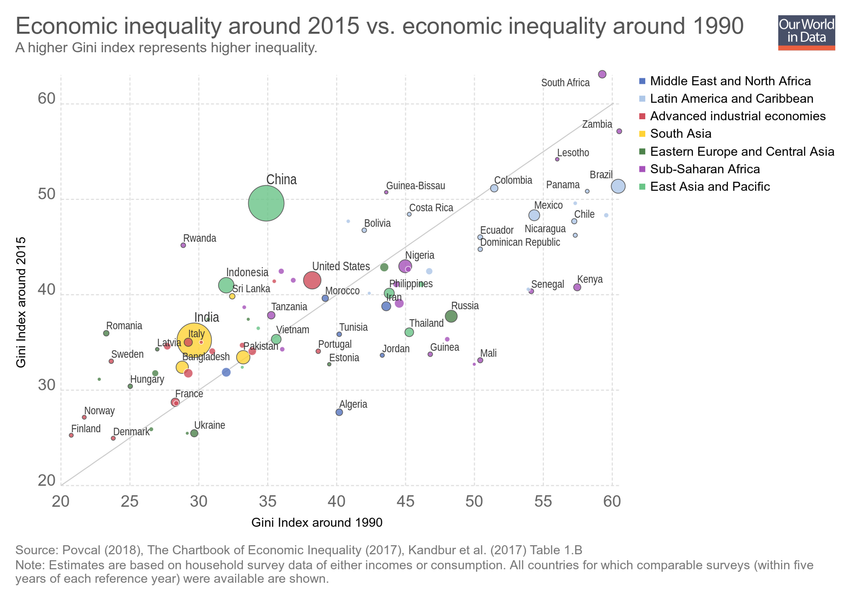
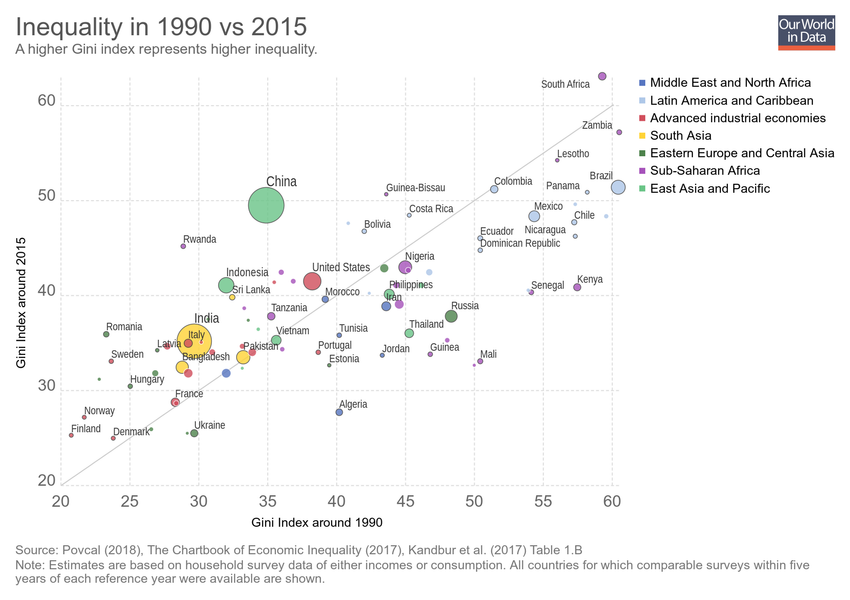
Updating chart gini-index-around-2015-1990-2015-countries-vs-gini-index-around-1990-1990-2015-countries

diff --git a/grapher/gini-index-around-2015-1990-2015-countries-vs-gini-index-around-1990-1990-2015-countries.html b/grapher/gini-index-around-2015-1990-2015-countries-vs-gini-index-around-1990-1990-2015-countries.html
@@ -1,4 +1,4 @@
-<!doctype html><html><head><meta name="viewport" content="width=device-width, initial-scale=1" /><title>Economic inequality around 2015 vs. economic inequality around 1990 - Our World in Data</title><meta name="description" content="A higher Gini index represents higher inequality." /><link rel="canonical" href="https://ourworldindata.org/grapher/gini-index-around-2015-1990-2015-countries-vs-gini-index-around-1990-1990-2015-countries" /><meta property="fb:app_id" content="1149943818390250" /><meta property="og:url" content="https://ourworldindata.org/grapher/gini-index-around-2015-1990-2015-countries-vs-gini-index-around-1990-1990-2015-countries" /><meta property="og:title" content="Economic inequality around 2015 vs. economic inequality around 1990" /><meta property="og:description" content="A higher Gini index represents higher inequality." /><meta property="og:image" content="https://ourworldindata.org/grapher/exports/gini-index-around-2015-1990-2015-countries-vs-gini-index-around-1990-1990-2015-countries.png?v=10" /><meta property="og:image:width" content="850" /><meta property="og:image:height" content="600" /><meta property="og:site_name" content="Our World in Data" /><meta name="twitter:card" content="summary_large_image" /><meta name="twitter:site" content="@OurWorldInData" /><meta name="twitter:creator" content="@OurWorldInData" /><meta name="twitter:title" content="Economic inequality around 2015 vs. economic inequality around 1990" /><meta name="twitter:description" content="A higher Gini index represents higher inequality." /><meta name="twitter:image" content="https://ourworldindata.org/grapher/exports/gini-index-around-2015-1990-2015-countries-vs-gini-index-around-1990-1990-2015-countries.png?v=10" /><style>
+<!doctype html><html><head><meta name="viewport" content="width=device-width, initial-scale=1" /><title>Inequality in 1990 vs 2015 - Our World in Data</title><meta name="description" content="A higher Gini index represents higher inequality." /><link rel="canonical" href="https://ourworldindata.org/grapher/gini-index-around-2015-1990-2015-countries-vs-gini-index-around-1990-1990-2015-countries" /><meta property="fb:app_id" content="1149943818390250" /><meta property="og:url" content="https://ourworldindata.org/grapher/gini-index-around-2015-1990-2015-countries-vs-gini-index-around-1990-1990-2015-countries" /><meta property="og:title" content="Inequality in 1990 vs 2015" /><meta property="og:description" content="A higher Gini index represents higher inequality." /><meta property="og:image" content="https://ourworldindata.org/grapher/exports/gini-index-around-2015-1990-2015-countries-vs-gini-index-around-1990-1990-2015-countries.png?v=11" /><meta property="og:image:width" content="850" /><meta property="og:image:height" content="600" /><meta property="og:site_name" content="Our World in Data" /><meta name="twitter:card" content="summary_large_image" /><meta name="twitter:site" content="@OurWorldInData" /><meta name="twitter:creator" content="@OurWorldInData" /><meta name="twitter:title" content="Inequality in 1990 vs 2015" /><meta name="twitter:description" content="A higher Gini index represents higher inequality." /><meta name="twitter:image" content="https://ourworldindata.org/grapher/exports/gini-index-around-2015-1990-2015-countries-vs-gini-index-around-1990-1990-2015-countries.png?v=11" /><style>
         html, body {
             height: 100%;
             margin: 0;
@@ -20,8 +20,8 @@
         }
     </style><noscript><style>
                     figure { display: none !important; }
-                </style></noscript><link rel="stylesheet" href="https://ourworldindata.org/grapher/assets/commons.bundle.9b8c6ed3f71d7662b5f2.css" /><link rel="preload" href="/grapher/data/variables/98734+98733+72+98732.json?v=10" as="fetch" crossorigin /></head><body class="singleChart"><figure data-grapher-src="/grapher/gini-index-around-2015-1990-2015-countries-vs-gini-index-around-1990-1990-2015-countries"></figure><noscript id="fallback"><img src="/grapher/exports/gini-index-around-2015-1990-2015-countries-vs-gini-index-around-1990-1990-2015-countries.svg" /><p>Interactive visualization requires JavaScript</p></noscript><script src="https://cdn.polyfill.io/v2/polyfill.min.js?features=es6,fetch"></script><script src="https://ourworldindata.org/grapher/assets/commons.bundle.9b8c6ed3f71d7662b5f2.js"></script><script src="https://ourworldindata.org/grapher/assets/charts.bundle.9b8c6ed3f71d7662b5f2.js"></script><script>
-        var jsonConfig = {"id":3149,"map":{"projection":"World","colorSchemeLabels":[],"colorSchemeValues":[],"customNumericColors":[],"customCategoryColors":{},"customCategoryLabels":{},"customHiddenCategories":{}},"tab":"chart","note":"Estimates are based on household survey data of either incomes or consumption. All countries for which comparable surveys (within five years of each reference year) were available are shown.","slug":"gini-index-around-2015-1990-2015-countries-vs-gini-index-around-1990-1990-2015-countries","type":"ScatterPlot","title":"Economic inequality around 2015 vs. economic inequality around 1990","xAxis":{"min":20,"scaleType":"linear"},"yAxis":{"min":20,"scaleType":"linear"},"maxTime":2015,"minTime":2015,"version":10,"subtitle":"A higher Gini index represents higher inequality.","hasMapTab":false,"stackMode":"absolute","dimensions":[{"display":{"name":"Gini Index around 2015"},"property":"y","variableId":98734},{"display":{"name":"Gini Index around 1990"},"property":"x","variableId":98733},{"display":{},"property":"size","variableId":72},{"display":{},"property":"color","variableId":98732}],"sourceDesc":"Povcal (2018), The Chartbook of Economic Inequality (2017), Kandbur et al. (2017) Table 1.B","hasChartTab":true,"isPublished":true,"hideTimeline":true,"selectedData":[],"addCountryMode":"add-country","comparisonLine":{"yEquals":"x"},"hideTitleAnnotation":true};
+                </style></noscript><link rel="stylesheet" href="https://ourworldindata.org/grapher/assets/commons.bundle.9b8c6ed3f71d7662b5f2.css" /><link rel="preload" href="/grapher/data/variables/98734+98733+72+98732.json?v=11" as="fetch" crossorigin /></head><body class="singleChart"><figure data-grapher-src="/grapher/gini-index-around-2015-1990-2015-countries-vs-gini-index-around-1990-1990-2015-countries"></figure><noscript id="fallback"><img src="/grapher/exports/gini-index-around-2015-1990-2015-countries-vs-gini-index-around-1990-1990-2015-countries.svg" /><p>Interactive visualization requires JavaScript</p></noscript><script src="https://cdn.polyfill.io/v2/polyfill.min.js?features=es6,fetch"></script><script src="https://ourworldindata.org/grapher/assets/commons.bundle.9b8c6ed3f71d7662b5f2.js"></script><script src="https://ourworldindata.org/grapher/assets/charts.bundle.9b8c6ed3f71d7662b5f2.js"></script><script>
+        var jsonConfig = {"id":3149,"map":{"projection":"World","colorSchemeLabels":[],"colorSchemeValues":[],"customNumericColors":[],"customCategoryColors":{},"customCategoryLabels":{},"customHiddenCategories":{}},"tab":"chart","note":"Estimates are based on household survey data of either incomes or consumption. All countries for which comparable surveys within five years of each reference year were available are shown.","slug":"gini-index-around-2015-1990-2015-countries-vs-gini-index-around-1990-1990-2015-countries","type":"ScatterPlot","title":"Inequality in 1990 vs 2015","xAxis":{"min":20,"scaleType":"linear"},"yAxis":{"min":20,"scaleType":"linear"},"maxTime":2015,"minTime":2015,"version":11,"subtitle":"A higher Gini index represents higher inequality.","hasMapTab":false,"stackMode":"absolute","dimensions":[{"display":{"name":"Gini Index around 2015"},"property":"y","variableId":98734},{"display":{"name":"Gini Index around 1990"},"property":"x","variableId":98733},{"display":{},"property":"size","variableId":72},{"display":{},"property":"color","variableId":98732}],"sourceDesc":"Povcal (2018), The Chartbook of Economic Inequality (2017), Kandbur et al. (2017) Table 1.B","hasChartTab":true,"isPublished":true,"hideTimeline":true,"selectedData":[],"addCountryMode":"add-country","comparisonLine":{"yEquals":"x"},"hideTitleAnnotation":true};
         var figure = document.getElementsByTagName("figure")[0];
         try {
             window.App = {};
